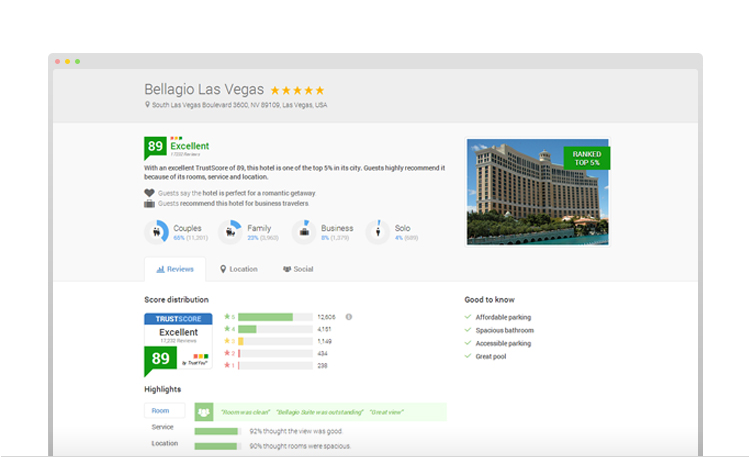
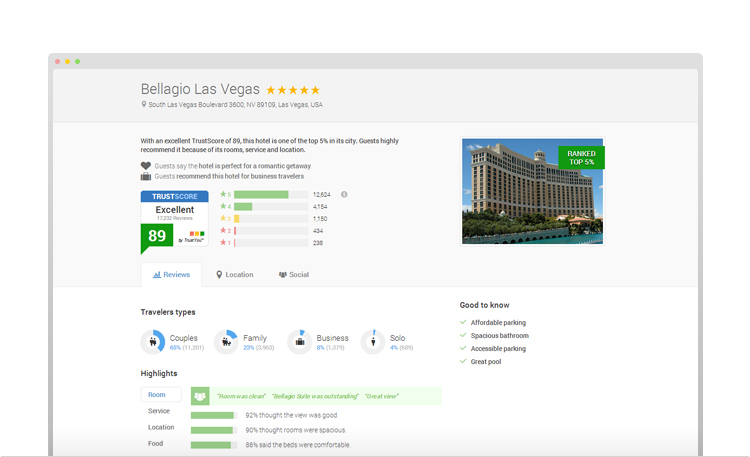
Changed widget position
Moved the widgets around to fit in better with the rest of the content
and removed the M sized TrustScore.

diff --git a/index.html b/index.html
@@ -34,21 +34,9 @@
   <!-- HTML template for basic hotel info -->
   <script id="tmpl-hotel-info" type="x-tmpl-mustache">
     <div class="col-xs-8">
-      <div class="trustscore size-m pos">
-        <div class="value">{{trustScore}}</div>
-        <div class="badges">
-          <i class="ty-icon ty-icon-badge-full neg"></i>
-          <i class="ty-icon ty-icon-badge-full neu"></i>
-          <i class="ty-icon ty-icon-badge-full pos"></i>
-        </div>
-        <div class="score">Excellent </div>
-        <div class="counter">{{reviewsCount}} Reviews</div>
-      </div>
-
       <h3>
         {{summary}}
       </h3>
-
       <div class="hotel-type">
         {{#hotelTypes}}
         <p>
@@ -57,8 +45,8 @@
         </p>
         {{/hotelTypes}}
       </div>
-      <div class="traveler-type-distribution">
-        <iframe src="http://api.trustyou.com/hotels/674fa44c-1fbd-4275-aa72-a20f262372cd/traveler_distribution.html" />
+      <div class="trustscore-distribution">
+        <iframe src="http://api.trustyou.com/hotels/674fa44c-1fbd-4275-aa72-a20f262372cd/trust_score_distribution.html" />
       </div>
     </div>
     <div class="col-xs-4">
@@ -77,10 +65,10 @@
   <!-- HTML template for review summary -->
   <script id="tmpl-reviews-tab" type="x-tmpl-mustache">
     <div class="row">
-      <div class="col-xs-8">      
-        <section class="score-distribution">
-          <h2>Score distribution</h2>
-          <iframe src="http://api.trustyou.com/hotels/674fa44c-1fbd-4275-aa72-a20f262372cd/trust_score_distribution.html" />
+      <div class="col-xs-8"> 
+        <section class="traveler-type-distribution">
+          <h2>Travelers types</h2>
+          <iframe src="http://api.trustyou.com/hotels/674fa44c-1fbd-4275-aa72-a20f262372cd/traveler_distribution.html" />
         </section>
         <section class="highlights">
           <h2>Highlights</h2>

diff --git a/css/style.css b/css/style.css
@@ -69,8 +69,8 @@ header .container {
 }
 
 header .hotel-title {
-	background: #eee;
-	border-bottom: 1px solid #ddd;
+	background: #f3f3f3;
+	border-bottom: 1px solid #e0e0e0;
 	padding: 30px 0;
 	margin-bottom: 30px;
 }
@@ -92,7 +92,7 @@ header h2 .ty-icon {
 }
 
 header h3 {
-	margin: 0 0 15px;
+	margin: 0 50px 15px 0;
 	font-size: 1.0em;
 	line-height: 1.4em;
 }
@@ -144,6 +144,7 @@ header .ranking span {
 
 header .hotel-type{
 	padding-left: 30px;
+	margin-bottom: 20px;
 }
 
 header .hotel-type p{
@@ -159,14 +160,15 @@ header .hotel-type p .ty-icon {
 
 /* Traveler type distribution */
 
-header .traveler-type-distribution {
+.traveler-type-distribution {
 	margin-top: 15px;
-	margin-left: -10px;
+	margin-bottom: 10px;
 }
 
-header .traveler-type-distribution iframe {
+.traveler-type-distribution iframe {
 	width: 100%;
 	height: 80px;
+	margin-left: -10px;
 	border: none;
 	background: transparent;
 }
@@ -217,11 +219,7 @@ header .nav-tabs>li .ty-icon {
 
 /* Score distribution */
 
-.score-distribution {
-
-}
-
-.score-distribution iframe {
+.trustscore-distribution iframe {
 	width: 100%;
 	height: 150px;
 	border: none;
